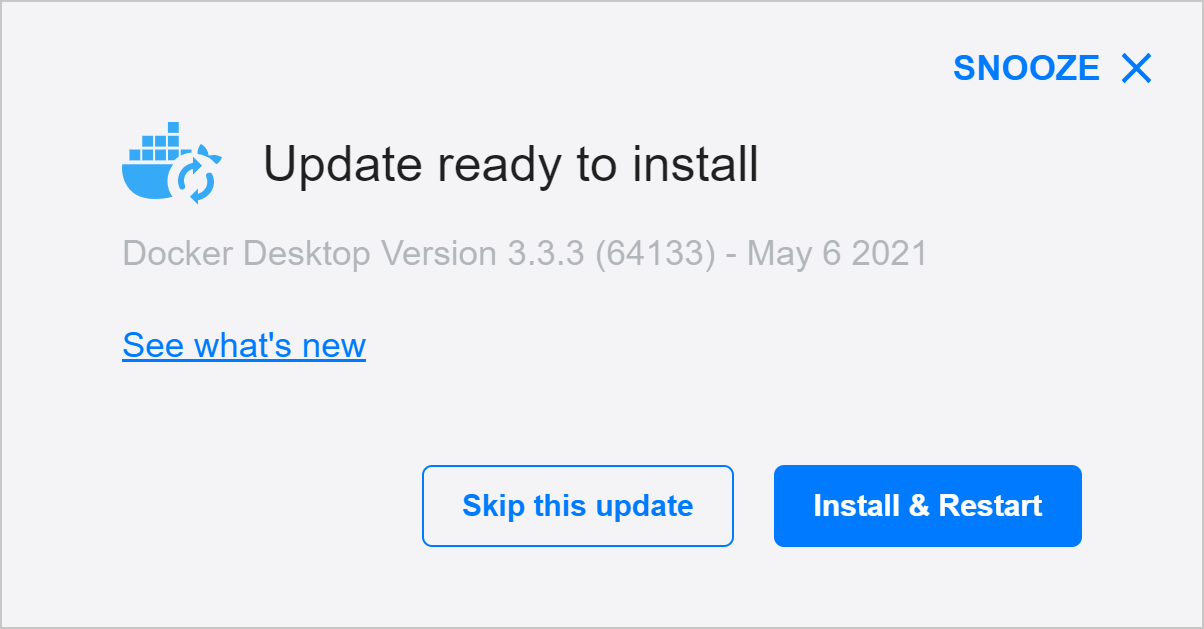
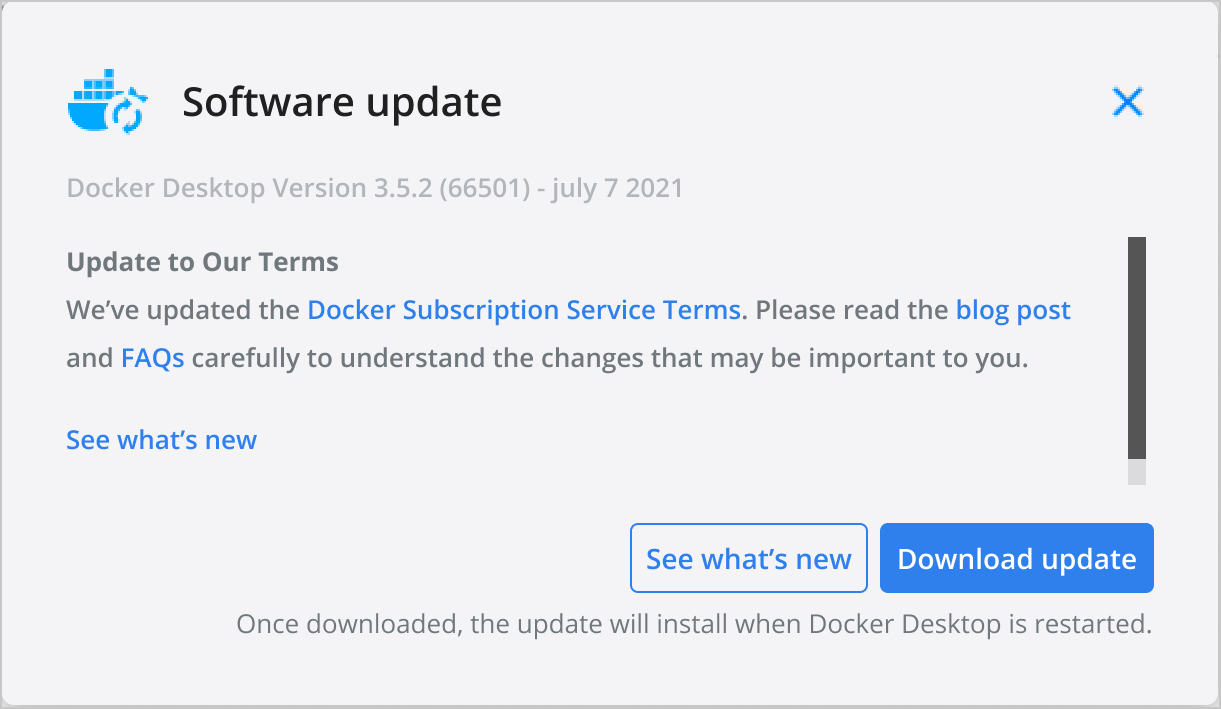
First draft for subscription changes

diff --git a/_includes/landing-page/docker-pricing.html b/_includes/landing-page/docker-pricing.html
@@ -3,15 +3,15 @@
     <div class="row">
       <div class="col-xs-12 col-md-6 col-lg-offset-1 col-lg-7">
         <h2>
-          New Pricing and Packaging announced!
+          Docker updates subscription model to deliver scale, speed, and security
         </h2>
         <h5>
-          We've created new plans that provide enhanced privacy and security, parallel automated builds, user management, and more for developers and development teams.
+        The updated Docker subscription tiers deliver the productivity and collaboration developers rely on, paired with the security and trust businesses demand. Docker subscription tiers now include Personal, Pro, Team, and Buisness.
         </h5>
       </div>
       <div class="col-xs-12 col-md-6 col-lg-4 text-center">
-        <a class="btn" href="https://www.docker.com/pricing" target="_blank" rel="noopener">
-          Check out the details
+        <a class="btn" href="https://docs.docker.com/subscription/" target="_blank" rel="noopener">
+          Learn more
         </a>
       </div>
     </div>

diff --git a/_layouts/landing.html b/_layouts/landing.html
@@ -143,7 +143,7 @@
     </div>
   </section>
 
-  {% include landing-page/dev-environments.html %}
+  {% include landing-page/docker-pricing.html %}
 
   <section class="container help-by-product">
     <div class="row">

diff --git a/_includes/upgrade-cta.html b/_includes/upgrade-cta.html
@@ -4,6 +4,6 @@
   {{ include.body | markdownify }}
 
   <a class="btn btn-primary" role="button" href="{{include.target-url}}" target="_blank">
-    Upgrade my plan
+    Upgrade now
   </a>
 </div>

diff --git a/subscription/index.md b/subscription/index.md
@@ -1,36 +1,83 @@
 ---
 description: Docker subscription overview
-keywords: Docker, pricing, billing, Pro, Team, subscription, plans,
+keywords: Docker, pricing, billing, Pro, Team, subscription, tier, plan
 title: Docker subscription overview
 redirect_from:
 - /docker-hub/billing/
+- /docker-hub/billing/faq/
+- /subscription/faq/
 ---
 
-On May 14, 2020, Docker announced a new, per-seat pricing model that aligns with Docker’s [product strategy](https://www.docker.com/blog/docker-strategy-helping-devs-build-and-ship-faster/){: target="_blank" rel="noopener" class="_"} to accelerate developer workflows for cloud-native development. The previous private repository/parallel autobuild-based plans have been replaced with new **Pro** and **Team** subscriptions that include unlimited private repositories and up to 50,000 container pulls in a 24-hour period.
-Starting with May 14, 2020, new customers who sign up for Docker can choose between the new Free, Pro, and Team plans.
+On August 31, 2021, we [announced](https://www.docker.com/blog/updating-product-subscriptions/){: target="_blank" rel="noopener" class="_"} updates and extensions to our product subscriptions to increase productivity, collaboration, and added security for our developers. Docker subscription tiers now include Personal, Pro, Team, and Business.
 
-Existing Docker customers who had subscribed to a paid plan before May 14, 2020 have been converted to the new Pro or Team plan after January 31, 2021.
+Here's a summary of the changes:
 
-## Pricing plans
+- We’re introducing a new product subscription, Docker Business, for large enterprises that require features like registry restrictions, SSO, secure software supply chain management, and more.
+- Our Docker Subscription Service Terms include a change to the terms of use for Docker Desktop.
+    - It remains free for small businesses (fewer than 250 employees AND less than $1 million in annual revenue), personal use, education, and non-commercial open source projects.
+    - It requires a paid subscription (Pro, Team, or Business), for as little as $5 a month, for professional use in larger enterprises. 
+    - The effective date of these terms is 31 August 2021. There is a grace period until 31 January 2022 for those that will require a paid subscription to use Docker Desktop.
+- The Docker Pro and Docker Team subscriptions now include commercial use of Docker Desktop.
+- The existing Docker Free subscription has been renamed Docker Personal. 
+- No changes to Docker Engine or any other upstream open source Docker or Moby project.
 
-Docker offers pricing plans that are tailored for individual developers and development teams. You can also choose between an **Annual** or a **Monthly** subscription. The Pro and Team plans offered through annual subscription include a discount compared to the price of the same plan offered through monthly subscription.
+To understand how these changes affect you, read the [Docker subscription FAQs](https://www.docker.com/pricing/faq){: target="_blank" rel="noopener" class="_"}.
 
-**For individuals:**
+To compare features available in each subscription, see the [Docker Pricing](https://www.docker.com/pricing/){: target="_blank" rel="noopener" class="_"} page.
 
-The **Pro** plan includes unlimited public repositories, unlimited private repositories, unlimited [collaborators](../docker-hub/repos.md#collaborators-and-their-role) for public repositories, one [service account](../docker-hub/service-accounts.md) for private repositories, autobuilds with 5 parallel builds, starting at $5 per month with the annual subscription.
+## Docker Personal
+
+Docker Personal is the new name for the Docker Free subscription. With its focus on the open source communities, individual developers, education, and small businesses, Docker Personal will continue to allow free use of Docker components - including the Docker CLI, Docker Compose, Docker Engine, Docker Desktop, Docker Hub, Kubernetes, Docker Build and Docker BuildKit, Docker Official Images, Docker Scan, and more.
+
+Docker Personal includes unlimited public repositories and unlimited collaborators for public repositories and zero service accounts for private repositories at no cost per month.
+
+For a list of features available in each tier, see [Docker Pricing](https://www.docker.com/pricing/){: target="_blank" rel="noopener" class="_"}.
+
+## Docker Pro
+
+**Docker Pro** enables individual developers to get more control of their development environment and provides an integrated and reliable developer experience. It includes unlimited public repositories, unlimited private repositories, unlimited [collaborators](../docker-hub/repos.md#collaborators-and-their-role) for public repositories, one [service account](../docker-hub/service-accounts.md) for private repositories, autobuilds with 5 parallel builds, starting at $5 per month with the annual subscription.
 
 > **Note**
 >
-> Pro plans allow one service account for private repositories. For more information, see [service accounts](../docker-hub/service-accounts.md). If you already have more than one collaborator in your private repository, you’ll not be able to add any further collaborators. Any new private repository that you create will be restricted to one service account.
+> Docker Pro tiers allow one service account for private repositories. For more information, see [service accounts](../docker-hub/service-accounts.md). If you already have more than one collaborator in your private repository, you’ll not be able to add any further collaborators. Any new private repository that you create will be restricted to one service account.
 
-The **Free** plan includes unlimited public repositories and unlimited collaborators for public repositories and zero service accounts for private repositories at no cost per month.
+For a list of features available in each tier, see [Docker Pricing](https://www.docker.com/pricing/){: target="_blank" rel="noopener" class="_"}.
 
-**For development teams:**
+## Docker Team
 
-The **Team** plan includes unlimited public and unlimited private repositories starting at $25 per month for the first 5 users and $7 per month for each user thereafter with the annual subscription. In addition, the Team plan offers autobuilds with 15 parallel builds, advanced collaboration and management tools, including organization and team management with role-based access controls for the whole team.
+The **Docker Team** tier includes unlimited public and unlimited private repositories starting at $25 per month for the first 5 users and $7 per month for each user thereafter with the annual subscription. In addition, the Team tier offers autobuilds with 15 parallel builds, advanced collaboration and management tools, including organization and team management with role-based access controls for the whole team.
 
-The **Free Team** plan includes unlimited public repositories at no cost per month. This plan also offers advanced collaboration and management tools, including organization and team management with role-based access controls which are limited to 1 team and 3 team members.
+For a list of features available in each tier, see [Docker Pricing](https://www.docker.com/pricing/){: target="_blank" rel="noopener" class="_"}.
 
-For information on how to purchase a plan, see [Upgrade your plan](../subscription/upgrade.md), or to learn more about the features available in each plan, see [Docker Pricing](https://www.docker.com/pricing){: target="_blank" rel="noopener" class="_"}.
+## Docker Business
 
-For frequently asked questions about pricing, see [Docker pricing FAQ](https://www.docker.com/pricing/faq){: target="_blank" rel="noopener" class="_"}.
+The new Docker Business subscription enables organization-wide management and security for businesses that use Docker at scale. With an easy-to-use SaaS-based management plane, IT leaders can now efficiently monitor and manage all their Docker environments and accelerate their secure software supply chain initiatives. 
+
+In addition to all the capabilities available in the Pro and Team tiers, Docker Business tier adds the ability to control what registries and content developers can access, ensuring teams are building secure from the start by only pulling trusted base images. 
+
+For a list of features available in each tier, see [Docker Pricing](https://www.docker.com/pricing/){: target="_blank" rel="noopener" class="_"}.
+
+## Docker Desktop license terms
+
+Docker Desktop is licensed under the [Docker Subscription Service Terms](https://www.docker.com/legal/docker-terms-service){: target="_blank" rel="noopener" class="_"}. When downloading and installing Docker Desktop, you will be asked to agree to the terms of service.
+
+![Subscription service terms](../desktop/mac/images/subscription-terms.png){:width="700px"}
+
+Here's a summary of the key changes:
+
+- Docker Desktop remains free for small businesses (fewer than 250 employees AND less than $1 million in revenue), personal use, education, and non-commercial open source projects.  
+- It requires a paid subscription for professional use in larger enterprises.
+The effective date of these terms is 31 August 2021. There is a grace period until 31 January 2022 for those that will require a paid subscription to use Docker Desktop. 
+- The Docker Pro, Team, and Business subscriptions include commercial use of Docker Desktop
+
+You can also find a copy of the Docker Subscription Service Terms from the Docker menu. Select ![whale menu](../desktop/mac/images/whale-x.png){: .inline} > **About Docker Desktop** > **Subscription Service Terms**.
+
+Docker Desktop is built using open source software. For information about the licensing of open source components in Docker Desktop, Select ![whale menu](../desktop/mac/images/whale-x.png){: .inline} > **About Docker Desktop** > **Acknowledgements**.
+
+> **Note**
+>
+> The licensing and distribution terms for Docker and Moby open source projects such as Docker Engine are not changing.
+
+For information on how to subscribe, see [Upgrade your subscription](../subscription/upgrade.md), or to learn more about the features available in each tier, see [Docker Pricing](https://www.docker.com/pricing){: target="_blank" rel="noopener" class="_"}.
+
+For frequently asked questions about pricing, see [Docker subscription FAQs](https://www.docker.com/pricing/faq){: target="_blank" rel="noopener" class="_"}.

diff --git a/desktop/mac/install.md b/desktop/mac/install.md
@@ -6,14 +6,15 @@ redirect_from:
 - /docker-for-mac/install/
 ---
 
-Welcome to Docker Desktop for Mac. This page contains information about Docker Desktop for Mac system requirements, download URLs, installation instructions, and automatic updates.
+Welcome to Docker Desktop for Mac. This page contains information about Docker Desktop for Mac system requirements, download URLs, instructions to install and update Docker Desktop for Mac.
+
+{% include eula.md %}
 
 Download Docker Desktop for Mac:
 
 [Mac with Intel chip](https://desktop.docker.com/mac/stable/amd64/Docker.dmg?utm_source=docker&utm_medium=webreferral&utm_campaign=docs-driven-download-mac-amd64){: .button .primary-btn}
 [Mac with Apple chip](https://desktop.docker.com/mac/stable/arm64/Docker.dmg?utm_source=docker&utm_medium=webreferral&utm_campaign=docs-driven-download-mac-arm64){: .button .primary-btn}
 
-{% include eula.md %}
 
 ## System requirements
 
@@ -69,27 +70,46 @@ The Docker Desktop installation includes
 
       ![Install Docker app](images/docker-app-drag.png)
 
-2. Double-click `Docker.app` in the Applications folder to start Docker. (In the example below, the Applications folder is in "grid" view mode.)
+2. Double-click `Docker.app` in the Applications folder to start Docker.In the example below, the Applications folder is in "grid" view mode.
 
     ![Docker app in Hockeyapp](images/docker-app-in-apps.png)
 
-    The Docker menu in the top status bar indicates that Docker Desktop is running, and accessible from a terminal.
+3. The Docker menu (![whale menu](images/whale-x.png){: .inline}) displays the Subscription Service Terms window. It includes a change to the terms of use for Docker Desktop. 
 
-      ![Whale in menu bar](images/whale-in-menu-bar.png)
+    > **Docker Subscription Service Terms**
+    >
+    > Beginning on August 31, 2021, you must agree to the [Docker Subscription Service Terms](https://www.docker.com/legal/docker-terms-service){: target="_blank" rel="noopener" class="_"} to continue using Docker Desktop. Read the information presented on the screen to understand how the changes impact you. 
 
-    If you've just installed the app, Docker Desktop launches the onboarding tutorial. The tutorial includes a simple exercise to build an example Docker image, run it as a container, push and save the image to Docker Hub.
+    ![Subscription service terms](images/subscription-terms.png){:width="700px"}
 
-    ![Docker Quick Start tutorial](images/docker-tutorial-mac.png)
+   **Here’s a summary of the key changes:**
 
-3. Click the Docker menu (![whale menu](images/whale-x.png){: .inline}) to see
-**Preferences** and other options.
+    - Docker Subscription Service Terms include a change to the terms of use for Docker Desktop
+    - It remains free for small businesses (fewer than 250 employees AND less than $1 million in revenue), personal use, education, and non-commercial open source projects.  
+    - It requires a paid subscription for professional use in larger enterprises.
+    - The effective date of these terms is 31 August 2021. There is a grace period until 31 January 2022 for those that will require a paid subscription to use Docker Desktop. 
+    - The existing Docker Free subscription has been renamed Docker Personal and we have introduced a Docker Business subscription .
+    The Docker Pro, Team, and Business subscriptions include commercial use of Docker Desktop.
 
-4. Select **About Docker** to verify that you have the latest version.
+    The [blog post](https://www.docker.com/blog/updating-product-subscriptions/){: target="_blank" rel="noopener" class="_"} and the [Docker subscription FAQs](https://www.docker.com/pricing/faq){: target="_blank" rel="noopener" class="_"} also give you detailed information about the changes.
 
-Congratulations! You are now successfully running Docker Desktop.
+4. Click the checkbox to indicate that you accept the terms of service and then click **Accept** to continue. Docker Desktop starts after you accept the terms of service.
 
-If you would like to rerun the tutorial, go to the Docker Desktop menu 
-and select **Learn**.
+    > **Important**
+    >
+    > If you do not agree to the terms of service, the Docker Desktop application will close and  you can no longer run Docker Desktop on your machine. You can choose to accept the terms at a later date by opening Docker Desktop.
+    {: .important}
+
+  For more information, see [Docker Desktop license terms](/subscription/#docker-desktop-license-terms).
+
+### Quick start guide  
+  
+  If you've just installed the app, Docker Desktop launches the Quick Start Guide. The tutorial includes a simple exercise to build an example Docker image, run it is a container, push and save the image to Docker Hub.
+
+   ![Docker Quick Start tutorial](images/docker-tutorial-mac.png)
+
+Congratulations! You are now successfully running Docker Desktop. Click the Docker menu (![whale menu](images/whale-x.png){: .inline}) to see
+**Preferences** and other options. To run the Quick Start Guide on demand, select the Docker menu and then choose **Quick Start Guide**.
 
 ## Updates
 
@@ -102,7 +122,7 @@ To uninstall Docker Desktop from your Mac:
 1. From the Docker menu, select **Troubleshoot** and then select **Uninstall**.
 2. Click **Uninstall** to confirm your selection.
 
-> **Important**
+> **Note**
 >
 > Uninstalling Docker Desktop destroys Docker containers, images, volumes, and
 > other Docker related data local to the machine, and removes the files generated

diff --git a/desktop/windows/install.md b/desktop/windows/install.md
@@ -12,12 +12,12 @@ redirect_from:
 - /install/windows/ee-preview/
 ---
 
-Welcome to Docker Desktop for Windows. This page contains information about Docker Desktop for Windows system requirements, download URL, installation instructions, and automatic updates.
+Welcome to Docker Desktop for Windows. This page contains information about Docker Desktop for Windows system requirements, download URL, instructions to install and update Docker Desktop for Windows.
+
+{% include eula.md %}
 
 [Docker Desktop for Windows](https://desktop.docker.com/win/stable/amd64/Docker%20Desktop%20Installer.exe){:
 .button .primary-btn}
-
-{% include eula.md %}
 
 ## System requirements
 
@@ -122,14 +122,36 @@ Docker Desktop does not start automatically after installation. To start Docker 
 
 ![search for Docker app](images/docker-app-search.png){:width="300px"}
 
-When the whale icon in the status bar stays steady, Docker Desktop is up-and-running, and is accessible from any terminal window.
 
-![whale on taskbar](images/whale-icon-systray.png)
+The Docker menu (![whale menu](images/whale-x.png){: .inline}) displays the Subscription Service Terms window. It includes a change to the terms of use for Docker Desktop. 
 
-If the whale icon is hidden in the Notifications area, click the up arrow on the
-taskbar to show it. To learn more, see [Docker Settings](index.md#settings).
+  > **Docker Subscription Service Terms**
+  >
+  > Beginning on August 31, 2021, you must agree to the [Docker Subscription Service Terms](https://www.docker.com/legal/docker-terms-service){: target="_blank" rel="noopener" class="_"} to continue using Docker Desktop. Read the information presented on the screen to understand how the changes impact you. 
 
-## Quick Start Guide
+  ![Subscription service terms](../mac/images/subscription-terms.png){:width="700px"}
+
+   **Here’s a summary of the key changes:**
+
+  - Docker Subscription Service Terms include a change to the terms of use for Docker Desktop
+  - It remains free for small businesses (fewer than 250 employees AND less than $1 million in revenue), personal use, education, and non-commercial open source projects.  
+  - It requires a paid subscription for professional use in larger enterprises.
+  - The effective date of these terms is 31 August 2021. There is a grace period until 31 January 2022 for those that will require a paid subscription to use Docker Desktop. 
+  - The existing Docker Free subscription has been renamed Docker Personal and we have introduced a Docker Business subscription .
+    The Docker Pro, Team, and Business subscriptions include commercial use of Docker Desktop.
+
+  The [blog post](https://www.docker.com/blog/updating-product-subscriptions/){: target="_blank" rel="noopener" class="_"} and the [Docker subscription FAQs](https://www.docker.com/pricing/faq){: target="_blank" rel="noopener" class="_"}also give you detailed information about the changes.
+
+  Click the checkbox to indicate that you accept the terms of service and then click **Accept** to continue. Docker Desktop starts after you accept the terms of service.
+
+  > **Important**
+  >
+  > If you do not agree to the terms of service, the Docker Desktop application will close and  you can no longer run Docker Desktop on your machine. You can choose to accept the terms at a later date by opening Docker Desktop.
+  {: .important}
+
+ For more information, see [Docker Desktop license terms](/subscription/#docker-desktop-license-terms).
+
+### Quick Start Guide
 
 When the initialization is complete, Docker Desktop launches the **Quick Start Guide**. This tutorial includes a simple exercise to build an example Docker image, run it as a container, push and save the image to Docker Hub.
 

diff --git a/_includes/desktop-update.md b/_includes/desktop-update.md
@@ -1,9 +1,22 @@
 <!-- This text will be included in the Mac and Windows Install topic -->
 
-Starting with Docker Desktop 3.0.0, updates to Docker Desktop will be available as delta updates from the previous version. When an update is available, Docker Desktop displays an icon to indicate the availability of a newer version. You can choose when to start the download and installation process.
+When an update is available, Docker Desktop displays an icon to indicate the availability of a newer version. You can choose when to start the download and installation process.
 
-> To encourage developers to stay up to date, Docker Desktop displays a reminder two weeks after an update becomes available. You can dismiss this daily reminder by clicking **Snooze**. You can skip an update when a reminder appears by clicking the **Skip this update** option.
+To encourage developers to stay up to date, Docker Desktop displays a reminder two weeks after an update becomes available. You can dismiss this daily reminder by clicking **Snooze**. You can skip an update when a reminder appears by clicking the **Skip this update** option.
+
+> **Docker Subscription Service Terms**
+>
+> Beginning on August 31, 2021, you must agree to the [Docker Subscription Service Terms](https://www.docker.com/legal/docker-terms-service){: target="_blank" rel="noopener" class="_"} to continue using Docker Desktop. Read the [Blog](https://www.docker.com/blog/updating-product-subscriptions/){: target="_blank" rel="noopener" class="_"} and the [Docker subscription FAQs](https://www.docker.com/pricing/faq){: target="_blank" rel="noopener" class="_"} to learn more about the changes.
 
 ![Snooze update](/desktop/mac/images/snooze-update.png){:width="500px"}
 
 Click **Download update** When you are ready to download the update. This downloads the update in the background. After downloading the update, click **Update and restart** from the Docker menu. This installs the latest update and restarts Docker Desktop for the changes to take effect.
+
+When Docker Desktop starts, it displays the Subscription Service Terms window. Read the information presented on the screen to understand how the changes impact you. Click the checkbox to indicate that you accept the terms of service and then click **Accept** to continue.
+
+> **Important**
+>
+> If you do not agree to the terms, the Docker Desktop application will close and you can no longer run Docker Desktop on your machine.You can choose to accept the terms at a later date by opening Docker Desktop.
+{: .important}
+
+Docker Desktop starts after you accept the terms of service.

diff --git a/desktop/dashboard.md b/desktop/dashboard.md
@@ -208,7 +208,7 @@ The Images view also allows you to manage and interact with images in remote rep
 
 > **Note**
 >
-> If you have subscribed to a Pro or a Team plan and enabled [Vulnerability Scanning](../docker-hub/vulnerability-scanning.md) in Docker Hub, the scan results will appear on the Remote repositories tab.
+> If you have a paid Docker subscription and enabled [Vulnerability Scanning](../docker-hub/vulnerability-scanning.md) in Docker Hub, the scan results will appear on the Remote repositories tab.
 
 The **Pull** option allows you to pull the latest version of the image from Docker Hub. The **View in Hub** option opens the Docker Hub page and displays detailed information about the image, such as the OS architecture, size of the image, the date when the image was pushed, and a list of the image layers.
 
@@ -232,8 +232,8 @@ You can use [volumes](../storage/volumes.md) to store files and share them among
 The **Volumes** view in Docker Dashboard enables you to easily create and delete volumes and see which ones are being used. If you are a developer subscribed to a Pro or a Team plan, you can also see which container is using a specific volume and explore the files and folders in your volumes.
 
 {% include upgrade-cta.html
-  body="To start exploring the details in your volumes, upgrade to a Pro or a Team plan."
-  header-text="This feature requires a Pro or a Team plan"
+  body="To start exploring the details in your volumes, upgrade to a Docker Pro, Team, or a Business subscription."
+  header-text="This feature requires a paid Docker subscription"
   target-url="https://www.docker.com/pricing?utm_source=docker&utm_medium=webreferral&utm_campaign=docs_driven_upgrade_volumes"
 %}
 

diff --git a/desktop/mac/troubleshoot.md b/desktop/mac/troubleshoot.md
@@ -9,7 +9,7 @@ toc_max: 2
 ---
 
 {% include upgrade-cta.html
-  body="Did you know that Docker Desktop now offers support for developers subscribed to a Pro or a Team plan? Upgrade your existing plan to benefit from Docker Support. Click [here](#support) to learn more."
+  body="Did you know that Docker Desktop offers support for developers on a paid Docker subscription (Pro, Team, or Business)? Upgrade now to benefit from Docker Support. Click [here](#support) to learn more."
   target-url="https://www.docker.com/pricing?utm_source=docker&utm_medium=webreferral&utm_campaign=docs_driven_upgrade_desktop_support"
 %}
 
@@ -359,8 +359,8 @@ in the Apple documentation, and Docker Desktop [Mac system requirements](install
 This section contains instructions on how to get support, and covers the scope of Docker Desktop support.
 
 {% include upgrade-cta.html
-  body="Docker Desktop offers support for developers subscribed to a Pro or a Team plan. Upgrade your existing plan to benefit from Docker Support."
-  header-text="This feature requires a Pro or a Team plan"
+  body="Docker Desktop offers support for developers subscribed to a Pro, Team, or a Business tier. Upgrade now to benefit from Docker Support."
+  header-text="This feature requires a paid Docker subscription"
   target-url="https://www.docker.com/pricing?utm_source=docker&utm_medium=webreferral&utm_campaign=docs_driven_upgrade_desktop_support"
 %}
 

diff --git a/desktop/windows/troubleshoot.md b/desktop/windows/troubleshoot.md
@@ -10,7 +10,7 @@ toc_max: 2
 ---
 
 {% include upgrade-cta.html
-  body="Did you know that Docker Desktop now offers support for developers subscribed to a Pro or a Team plan? Upgrade your existing plan to benefit from Docker Support. Click [here](#support) to learn more."
+  body="Did you know that Docker Desktop offers support for developers on a paid Docker subscription (Pro, Team, or Business)? Upgrade now to benefit from Docker Support. Click [here](#support) to learn more."
   target-url="https://www.docker.com/pricing?utm_source=docker&utm_medium=webreferral&utm_campaign=docs_driven_upgrade_desktop_support"
 %}
 
@@ -442,8 +442,8 @@ explore other workarounds suggested on Docker Desktop forums.
 This section contains instructions on how to get support, and covers the scope of Docker Desktop support.
 
 {% include upgrade-cta.html
-  body="Docker Desktop offers support for developers subscribed to a Pro or a Team plan. Upgrade your existing plan to benefit from Docker Support."
-  header-text="This feature requires a Pro or a Team plan"
+  body="Docker Desktop offers support for developers subscribed to a Pro, Team, or a Business tier. Upgrade now to benefit from Docker Support."
+  header-text="This feature requires a paid Docker subscription"
   target-url="https://www.docker.com/pricing?utm_source=docker&utm_medium=webreferral&utm_campaign=docs_driven_upgrade_desktop_support"
 %}
 

diff --git a/desktop/faqs.md b/desktop/faqs.md
@@ -15,6 +15,16 @@ toc_max: 2
 
 For information about Docker Desktop system requirements, see [Docker Desktop for Mac system requirements](mac/install.md#system-requirements) and [Docker Desktop for Windows system requirements](windows/install.md#system-requirements).
 
+### Do I need to pay to use Docker Desktop?
+
+Docker Desktop remains free for small businesses (fewer than 250 employees AND less than $1 million in revenue), personal use, education, and non-commercial open source projects. It requires a paid subscription for professional use in larger enterprises.
+The effective date of these terms is 31 August 2021. There is a grace period until 31 January 2022 for those that will require a paid subscription to use Docker Desktop.
+
+When downloading and installing Docker Desktop, you will be asked to agree to the [Docker Subscription Service Terms](https://www.docker.com/legal/docker-terms-service){: target="_blank" rel="noopener" class="_"}.
+
+[Docker subscription FAQs](https://www.docker.com/pricing/faq){: target="_blank" rel="noopener" class="_"}.
+
+
 ### What is an experimental feature?
 
 {% include experimental.md %}

diff --git a/desktop/dev-environments.md b/desktop/dev-environments.md
@@ -88,7 +88,13 @@ Let's summarize the tasks we performed so far to start a single container Dev En
 
 ## Share your Dev Environment
 
-If you are a member of the Docker [Team plan](https://www.docker.com/pricing?utm_source=docker&utm_medium=webreferral&utm_campaign=docs_driven_upgrade){: target="_blank" rel="noopener" class="_"}, you can now share you Dev Environment with your team. When you are ready to share your environment, just click the **Share** button and specify the Docker Hub namespace where you'd like to push your Dev Environment to.
+{% include upgrade-cta.html
+  body="Docker Pro, Team, and Business users can now share Dev Environments with their team members."
+  header-text="This feature requires a paid Docker subscription"
+  target-url="https://www.docker.com/pricing?utm_source=docker&utm_medium=webreferral&utm_campaign=docs_driven_upgrade"
+%}
+
+When you are ready to share your environment, just click the **Share** button and specify the Docker Hub namespace where you’d like to push your Dev Environment to.
 
 ![Share a Dev environment](images/dev-env-share.png){:width="700px"}
 
